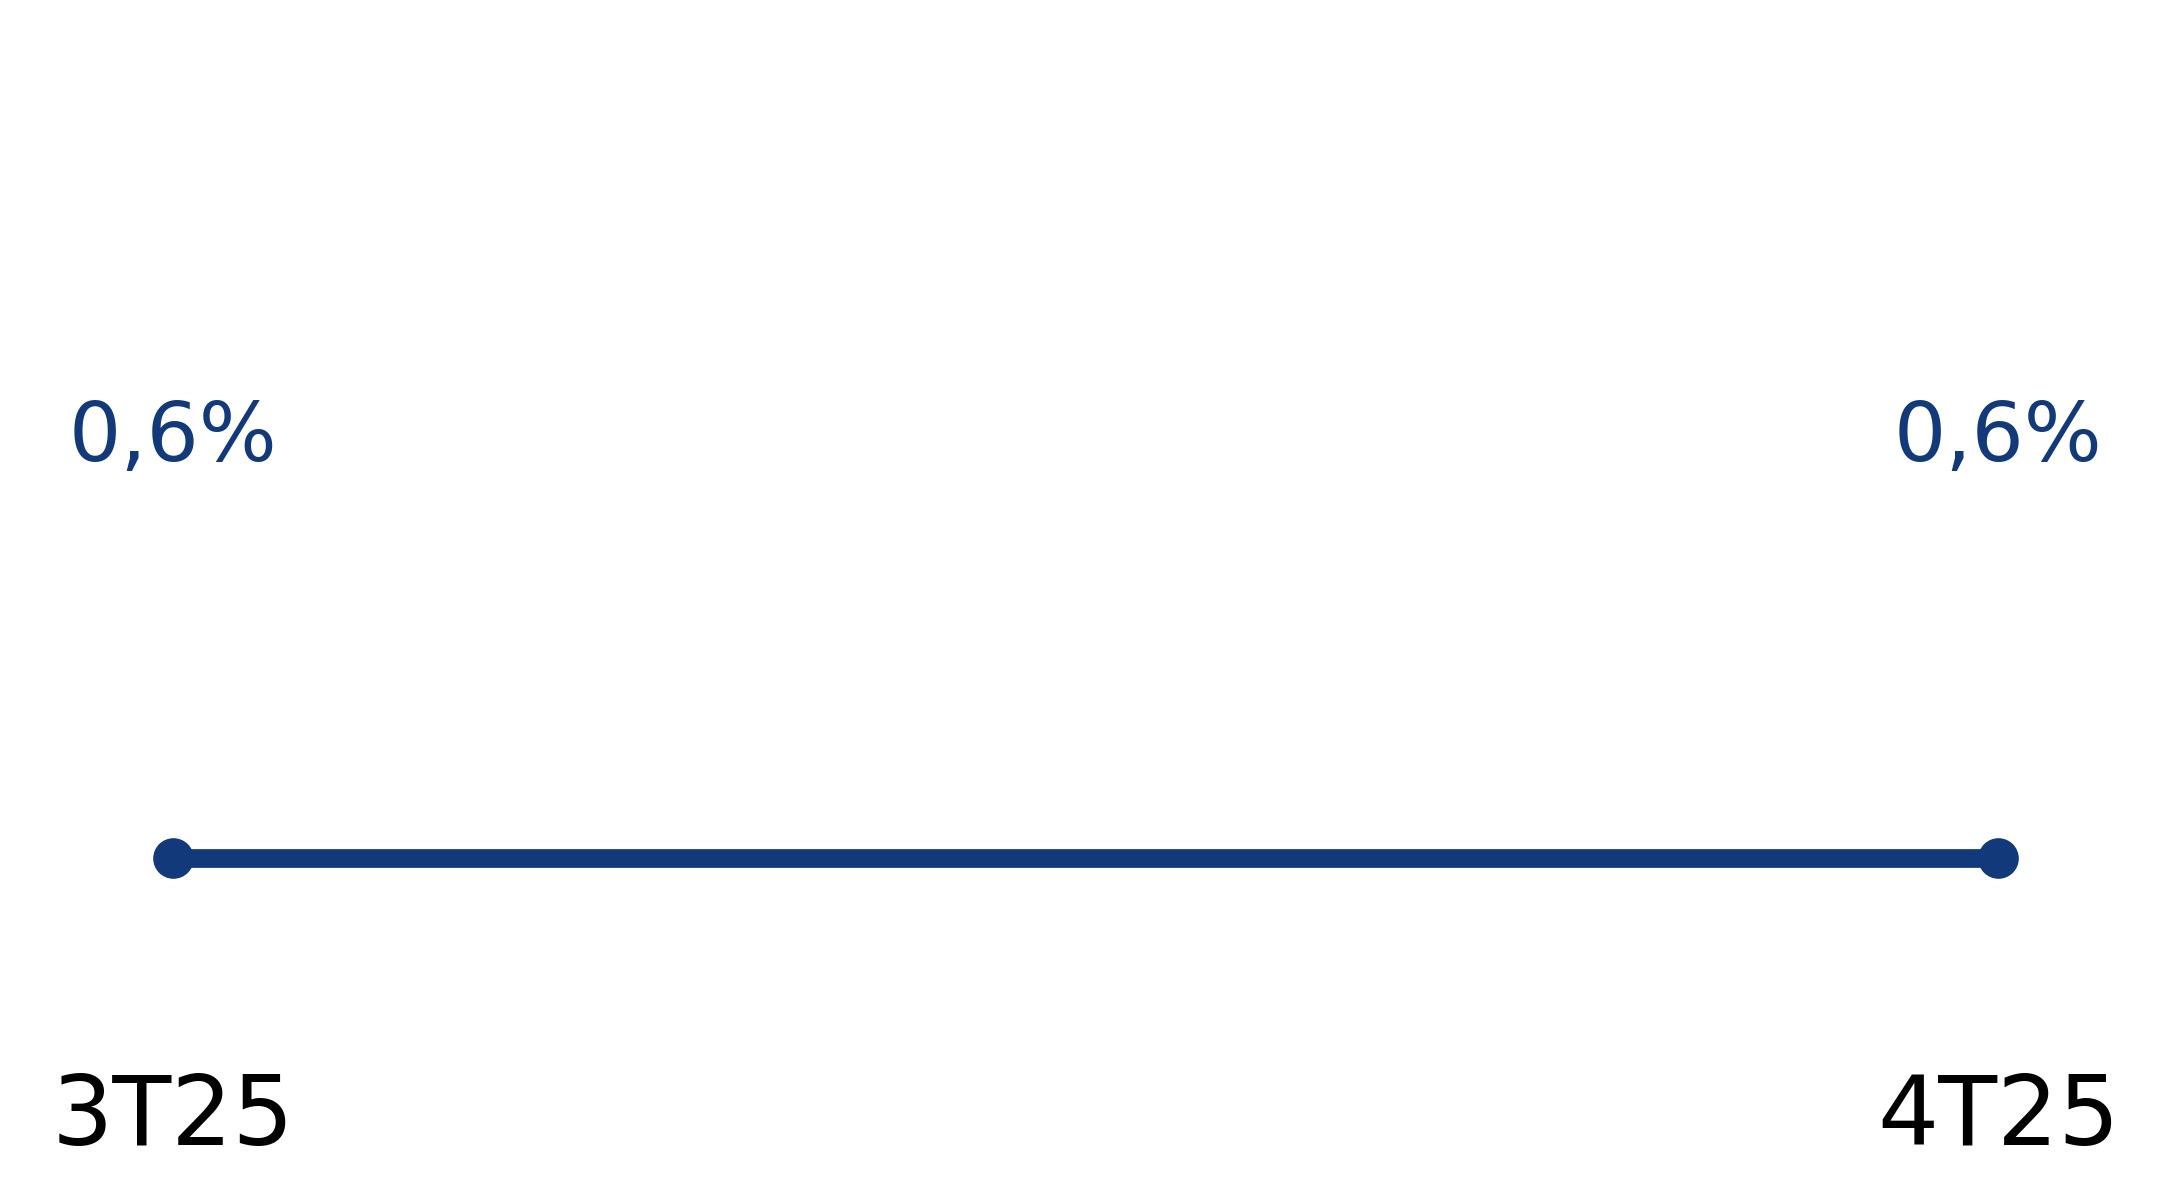
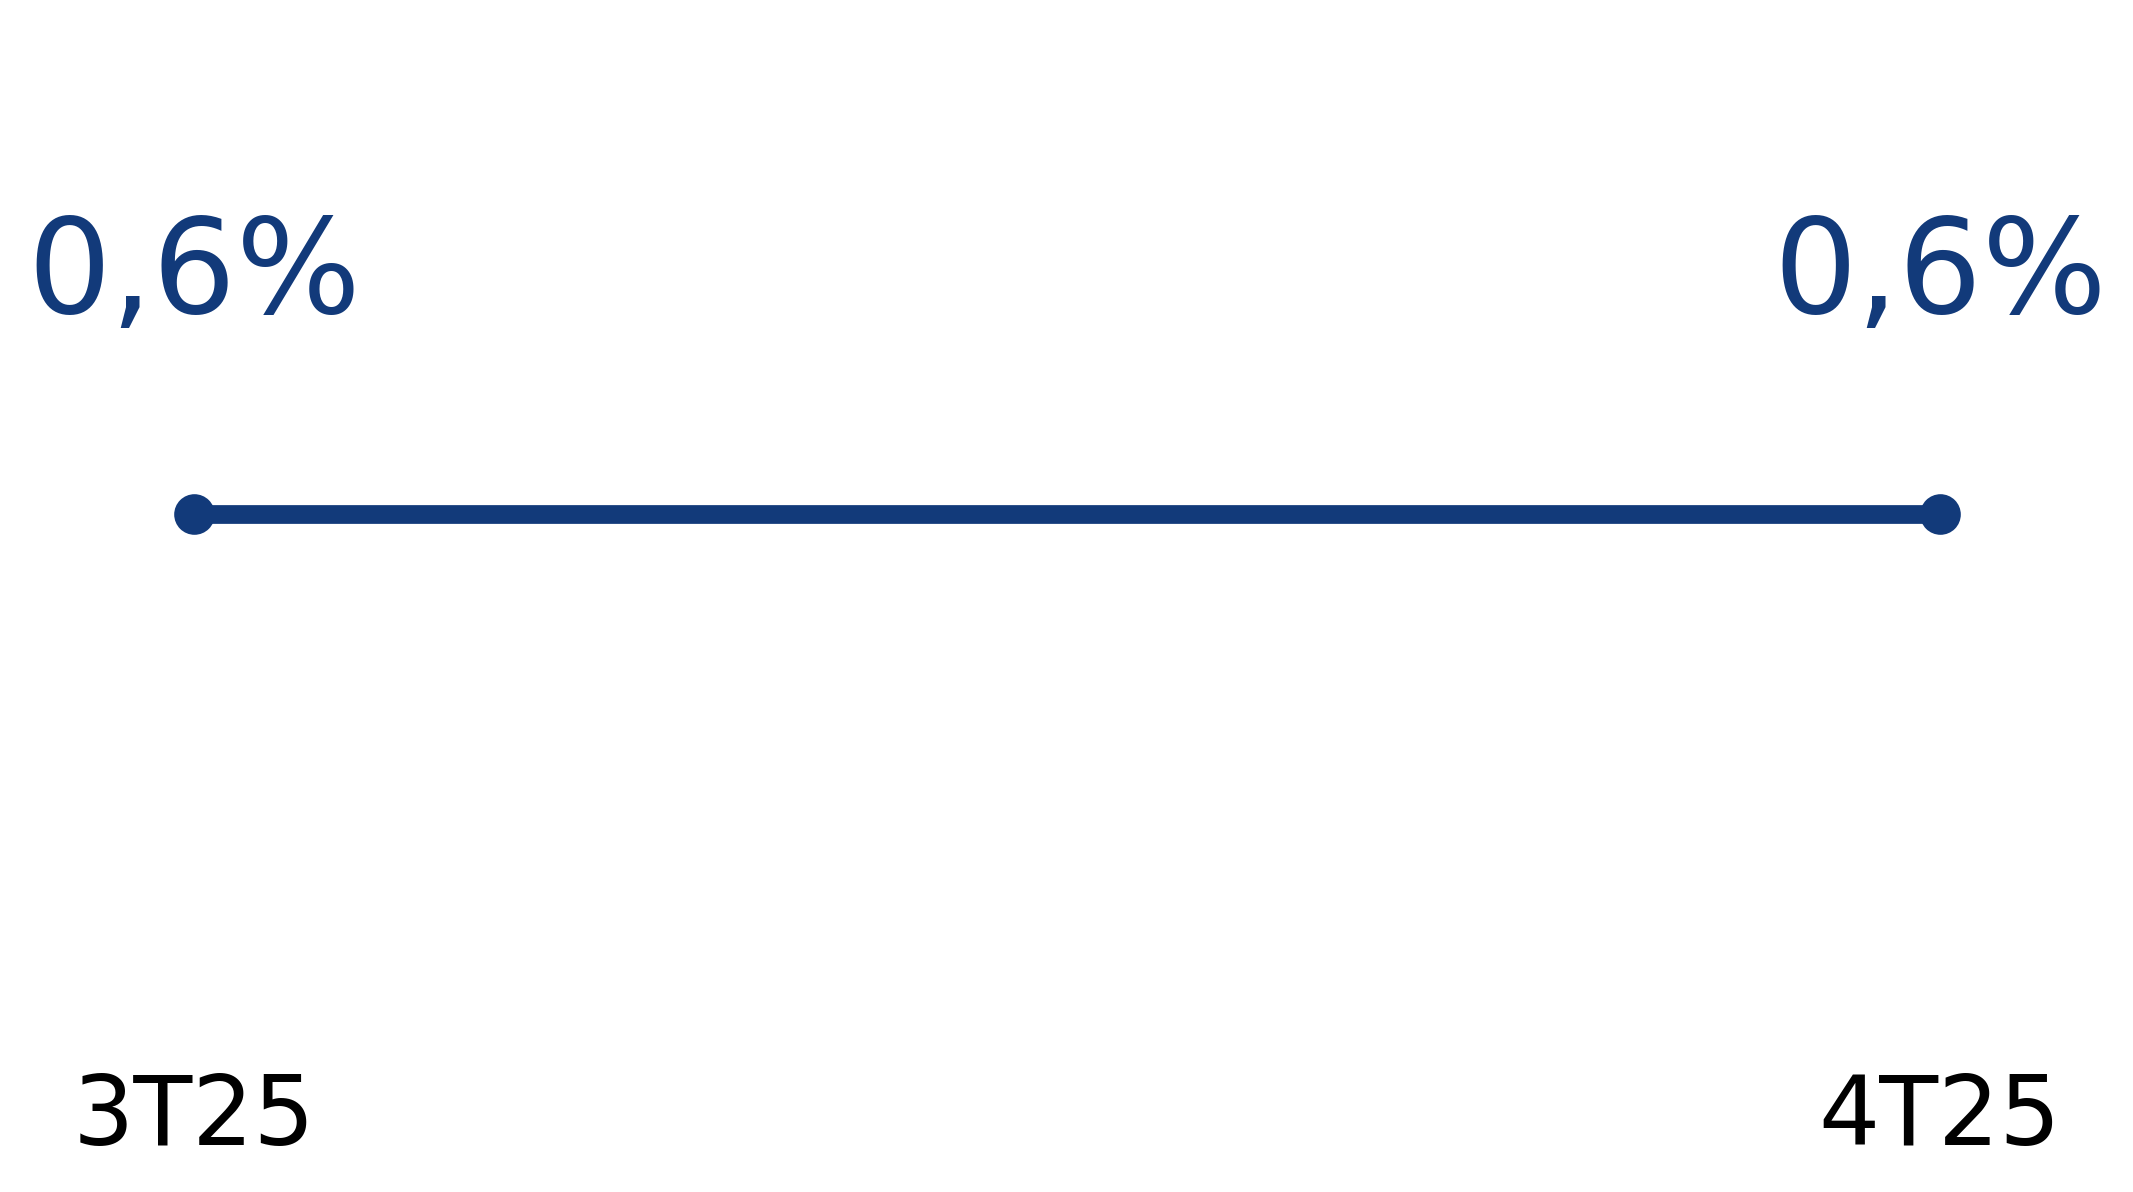
adjustments on slide22

diff --git a/utils/slide22_charts.py b/utils/slide22_charts.py
@@ -354,6 +354,12 @@ def _plot_two_point_lines(
     values: np.ndarray,  # [n_series, n_points]
     output_path: Path,
     label_decimals: int = 0,
+    label_font_scale: float = 1.0,
+    x_tick_font_scale: float = 1.0,
+    label_offset_factor: float = 0.06,
+    label_offset_min: float = 1.6,
+    y_pad_factor: float = 0.35,
+    y_pad_min: float = 3.5,
 ) -> None:
     import matplotlib.pyplot as plt
 
@@ -372,7 +378,7 @@ def _plot_two_point_lines(
     finite_values = values_arr[np.isfinite(values_arr)]
     y_min = float(np.nanmin(finite_values)) if finite_values.size else 0.0
     y_max = float(np.nanmax(finite_values)) if finite_values.size else 0.0
-    y_pad = max((y_max - y_min) * 0.35, 3.5)
+    y_pad = max((y_max - y_min) * float(y_pad_factor), float(y_pad_min))
 
     for idx in range(n_series):
         series = np.asarray(values_arr[idx, :], dtype=float)
@@ -391,7 +397,7 @@ def _plot_two_point_lines(
         for point_idx, (xi, yi) in enumerate(zip(x, series)):
             if not np.isfinite(yi):
                 continue
-            label_offset = max((y_max - y_min) * 0.06, 1.6)
+            label_offset = max((y_max - y_min) * float(label_offset_factor), float(label_offset_min))
             direction = -1.0 if idx > 0 else 1.0
             ax.text(
                 float(xi),
@@ -399,7 +405,7 @@ def _plot_two_point_lines(
                 _fmt_pct_int(yi) if label_decimals == 0 else _fmt_pct(yi),
                 ha="center",
                 va="bottom" if direction > 0 else "top",
-                fontsize=9.4 * SLIDE22_LINE_FONT_SCALE,
+                fontsize=9.4 * SLIDE22_LINE_FONT_SCALE * float(label_font_scale),
                 fontweight="normal",
                 color=color,
                 zorder=3,
@@ -409,7 +415,7 @@ def _plot_two_point_lines(
     ax.set_xlim(float(x.min()) - 0.08, float(x.max()) + 0.08)
     ax.set_ylim(max(0.0, y_min - y_pad), min(100.0, y_max + y_pad))
     ax.set_xticks(x)
-    ax.set_xticklabels(xlabels, fontsize=11.0 * SLIDE22_LINE_FONT_SCALE)
+    ax.set_xticklabels(xlabels, fontsize=11.0 * SLIDE22_LINE_FONT_SCALE * float(x_tick_font_scale))
     ax.tick_params(axis="x", bottom=False, pad=8)
     ax.set_yticks([])
     for spine in ("left", "right", "top", "bottom"):
@@ -428,6 +434,14 @@ def _plot_two_bar_values(
     xlabels: list[str],
     values: np.ndarray,  # [n_points]
     output_path: Path,
+    bar_width: float = SLIDE22_SIMPLE_BAR_WIDTH,
+    bar_slot: float = SLIDE22_SIMPLE_BAR_SLOT,
+    font_scale: float = 1.0,
+    bracket_anchor: str = "center",
+    bracket_top_gap_scale: float = 0.08,
+    bracket_top_gap_min: float = 18.0,
+    bracket_label_clearance: float = 0.0,
+    x_margin: float | None = None,
 ) -> None:
     import matplotlib.pyplot as plt
 
@@ -440,11 +454,12 @@ def _plot_two_bar_values(
     fig.patch.set_alpha(0)
     ax.set_facecolor("none")
 
-    x = np.arange(n, dtype=float) * SLIDE22_SIMPLE_BAR_SLOT
+    width = float(bar_width)
+    x = np.arange(n, dtype=float) * float(bar_slot)
     bars = ax.bar(
         x,
         vals,
-        width=SLIDE22_SIMPLE_BAR_WIDTH,
+        width=width,
         color=SLIDE22_SIMPLE_BAR_COLOR,
         edgecolor="none",
         zorder=2,
@@ -462,7 +477,7 @@ def _plot_two_bar_values(
             _fmt_num_int(value),
             ha="center",
             va="bottom",
-            fontsize=10.0,
+            fontsize=10.0 * float(font_scale),
             fontweight="bold" if i == n - 1 else "normal",
             color="#2f2f2f",
             zorder=4,
@@ -474,12 +489,24 @@ def _plot_two_bar_values(
         offset_y = max(abs_max * 0.08, 16.0)
         bracket_h = max(abs_max * 0.03, 10.0)
         top_labels_max = max(label_tops) if label_tops else float(np.nanmax(vals))
-        top_base = float(top_labels_max) + max(abs_max * 0.14, 30.0)
+        top_base = (
+            float(top_labels_max)
+            + max(abs_max * float(bracket_top_gap_scale), float(bracket_top_gap_min))
+            + float(bracket_label_clearance)
+        )
         prev = float(vals[0])
         curr = float(vals[1])
         if np.isfinite(prev) and np.isfinite(curr) and abs(prev) > 1e-12:
-            x1 = float(x[0])
-            x2 = float(x[1])
+            if bracket_anchor == "outer_edges":
+                edge_pad = width * 0.08
+                x1 = float(x[0]) - width / 2.0 - edge_pad
+                x2 = float(x[1]) + width / 2.0 + edge_pad
+            elif bracket_anchor == "inner_edges":
+                x1 = float(x[0]) + width / 2.0
+                x2 = float(x[1]) - width / 2.0
+            else:
+                x1 = float(x[0])
+                x2 = float(x[1])
             text_y = top_base + bracket_h + offset_y * 0.25
             ax.plot(
                 [x1, x1, x2, x2],
@@ -495,16 +522,17 @@ def _plot_two_bar_values(
                 _fmt_bracket_pct(curr, prev),
                 ha="center",
                 va="bottom",
-                fontsize=9.2,
+                fontsize=9.2 * float(font_scale),
                 color="#2f2f2f",
                 zorder=5,
             )
             ymin, ymax = ax.get_ylim()
             ax.set_ylim(ymin, max(ymax, text_y + offset_y * 0.8))
 
-    ax.set_xlim(float(x.min()) - 0.34, float(x.max()) + 0.34)
+    side_margin = float(x_margin) if x_margin is not None else max(width * 0.7, 0.22)
+    ax.set_xlim(float(x.min()) - side_margin, float(x.max()) + side_margin)
     ax.set_xticks(x)
-    ax.set_xticklabels(xlabels, fontsize=11.0)
+    ax.set_xticklabels(xlabels, fontsize=11.0 * float(font_scale))
     ax.tick_params(axis="x", bottom=False, pad=8)
     ax.set_yticks([])
     for spine in ("left", "right", "top", "bottom"):
@@ -576,6 +604,14 @@ def generate_slide22_charts(*, xlsx_path: Path, output_dir: Path) -> list[Path]:
         xlabels=xlabels_reestruturada,
         values=reestruturada_bar_values,
         output_path=reestruturada_bar_output,
+        bar_width=0.22,
+        bar_slot=0.24,
+        font_scale=1.5,
+        bracket_anchor="center",
+        bracket_top_gap_scale=0.18,
+        bracket_top_gap_min=55.0,
+        bracket_label_clearance=24.0,
+        x_margin=0.12,
     )
     generated.append(reestruturada_bar_output)
 
@@ -591,6 +627,11 @@ def generate_slide22_charts(*, xlsx_path: Path, output_dir: Path) -> list[Path]:
         values=reestruturada_line_values.reshape(1, -1),
         output_path=reestruturada_line_output,
         label_decimals=1,
+        label_font_scale=1.6,
+        label_offset_factor=0.02,
+        label_offset_min=0.10,
+        y_pad_factor=0.18,
+        y_pad_min=0.28,
     )
     generated.append(reestruturada_line_output)
 
@@ -623,6 +664,9 @@ def generate_slide22_charts(*, xlsx_path: Path, output_dir: Path) -> list[Path]:
         xlabels=xlabels_npl,
         values=npl_bar_values,
         output_path=npl_bar_output,
+        bracket_top_gap_scale=0.12,
+        bracket_top_gap_min=36.0,
+        bracket_label_clearance=18.0,
     )
     generated.append(npl_bar_output)
 

diff --git a/tests/test_slide22_charts.py b/tests/test_slide22_charts.py
@@ -79,22 +79,53 @@ class TestSlide22Charts(unittest.TestCase):
                 }
             )
 
-        def _capture_line_plot(*, xlabels, values, output_path, label_decimals=0):
+        def _capture_line_plot(
+            *,
+            xlabels,
+            values,
+            output_path,
+            label_decimals=0,
+            label_font_scale=1.0,
+            x_tick_font_scale=1.0,
+            label_offset_factor=0.06,
+            label_offset_min=1.6,
+            y_pad_factor=0.35,
+            y_pad_min=3.5,
+        ):
             captured_line_calls.append(
                 {
                     "xlabels": list(xlabels),
                     "values": values.tolist(),
                     "output_name": Path(output_path).name,
                     "label_decimals": label_decimals,
+                    "label_font_scale": label_font_scale,
+                    "x_tick_font_scale": x_tick_font_scale,
+                    "label_offset_factor": label_offset_factor,
+                    "label_offset_min": label_offset_min,
+                    "y_pad_factor": y_pad_factor,
+                    "y_pad_min": y_pad_min,
                 }
             )
 
-        def _capture_bar_plot(*, xlabels, values, output_path):
+        def _capture_bar_plot(
+            *,
+            xlabels,
+            values,
+            output_path,
+            bar_width=0.58,
+            bar_slot=1.0,
+            font_scale=1.0,
+            **kwargs,
+        ):
             captured_bar_calls.append(
                 {
                     "xlabels": list(xlabels),
                     "values": list(values),
                     "output_name": Path(output_path).name,
+                    "bar_width": bar_width,
+                    "bar_slot": bar_slot,
+                    "font_scale": font_scale,
+                    **kwargs,
                 }
             )
 
@@ -170,11 +201,25 @@ class TestSlide22Charts(unittest.TestCase):
                     "xlabels": ["3T25", "4T25"],
                     "values": [515.299, 533.967],
                     "output_name": "22_carteira_reestruturada_barras.png",
+                    "bar_width": 0.22,
+                    "bar_slot": 0.24,
+                    "font_scale": 1.5,
+                    "bracket_anchor": "center",
+                    "bracket_top_gap_scale": 0.18,
+                    "bracket_top_gap_min": 55.0,
+                    "bracket_label_clearance": 24.0,
+                    "x_margin": 0.12,
                 },
                 {
                     "xlabels": ["3T25", "4T25"],
                     "values": [826.0, 457.0],
                     "output_name": "22_npl_barras.png",
+                    "bar_width": 0.58,
+                    "bar_slot": 1.0,
+                    "font_scale": 1.0,
+                    "bracket_top_gap_scale": 0.12,
+                    "bracket_top_gap_min": 36.0,
+                    "bracket_label_clearance": 18.0,
                 }
             ],
         )
@@ -187,6 +232,11 @@ class TestSlide22Charts(unittest.TestCase):
             ],
         )
         self.assertEqual([call["label_decimals"] for call in captured_line_calls[-3:]], [1, 1, 1])
+        self.assertEqual(captured_line_calls[-3]["label_font_scale"], 1.6)
+        self.assertEqual(captured_line_calls[-3]["label_offset_factor"], 0.02)
+        self.assertEqual(captured_line_calls[-3]["label_offset_min"], 0.10)
+        self.assertEqual(captured_line_calls[-3]["y_pad_factor"], 0.18)
+        self.assertEqual(captured_line_calls[-3]["y_pad_min"], 0.28)
         np.testing.assert_allclose(
             captured_line_calls[-3]["values"],
             [[0.6, 0.6]],
